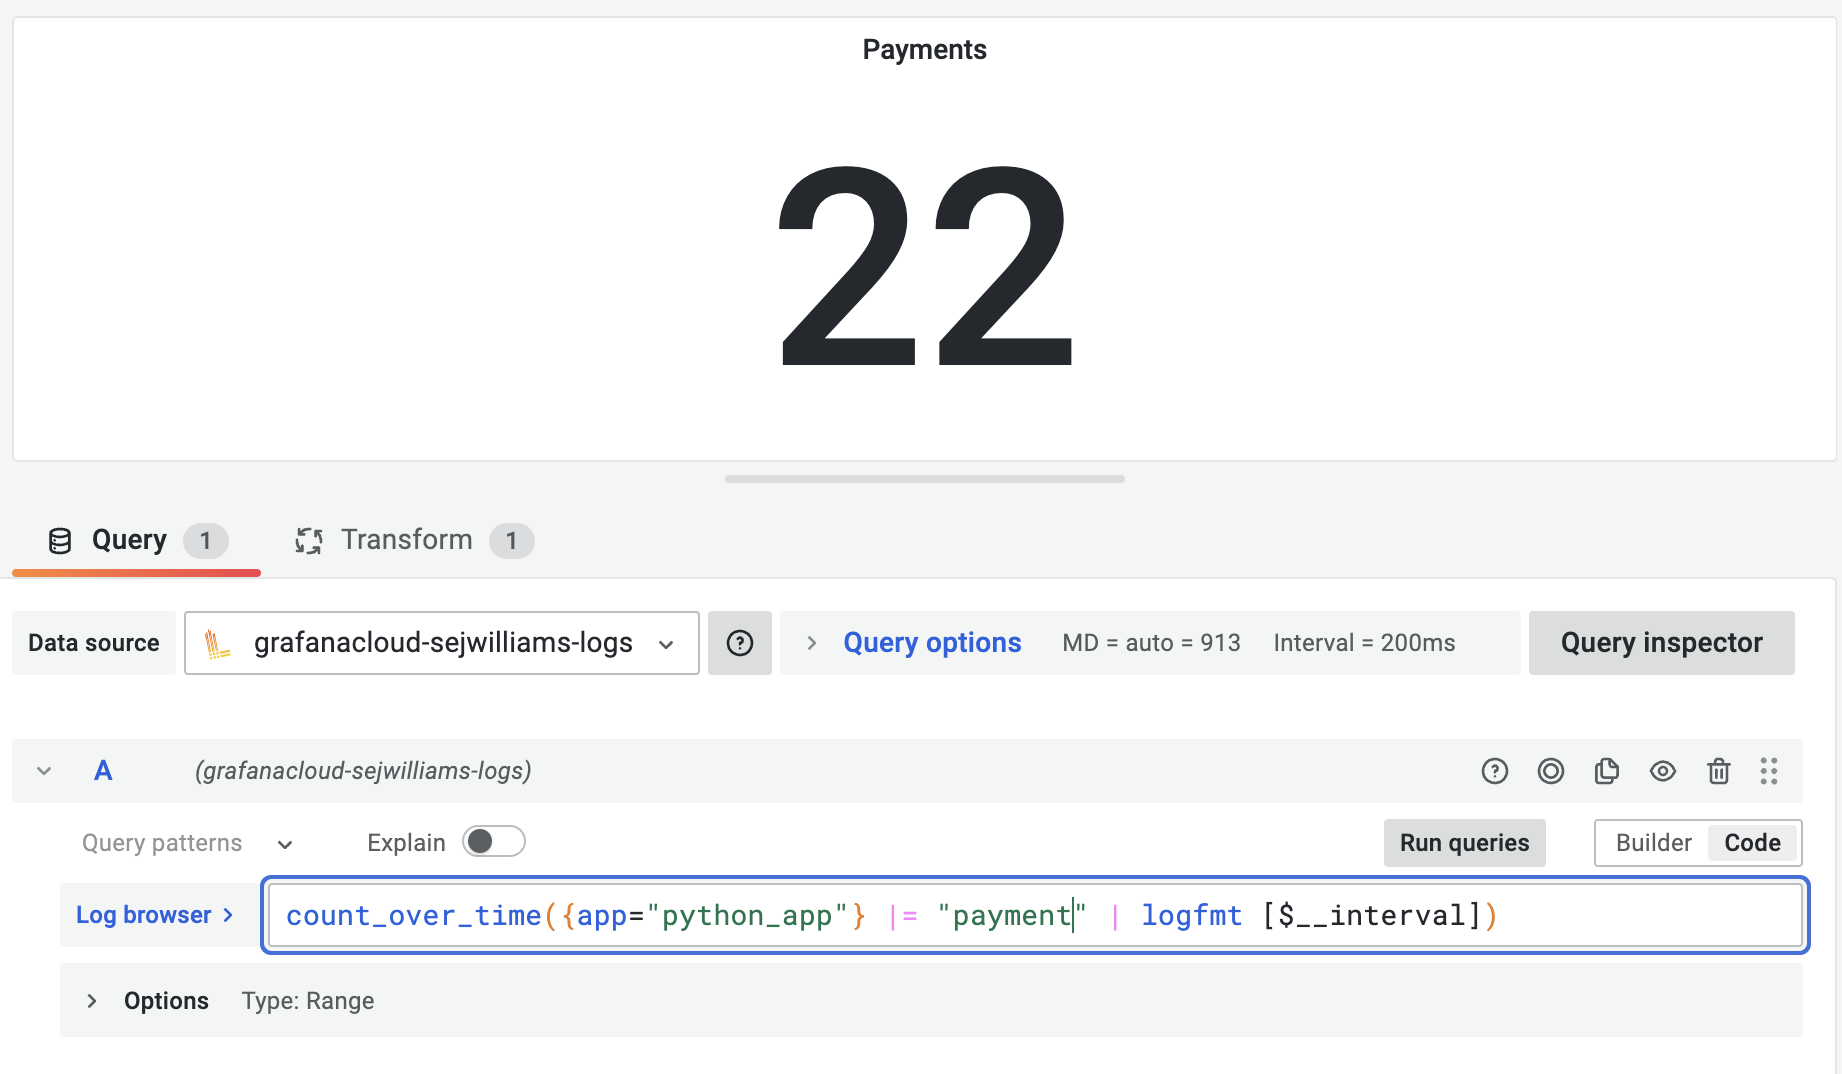
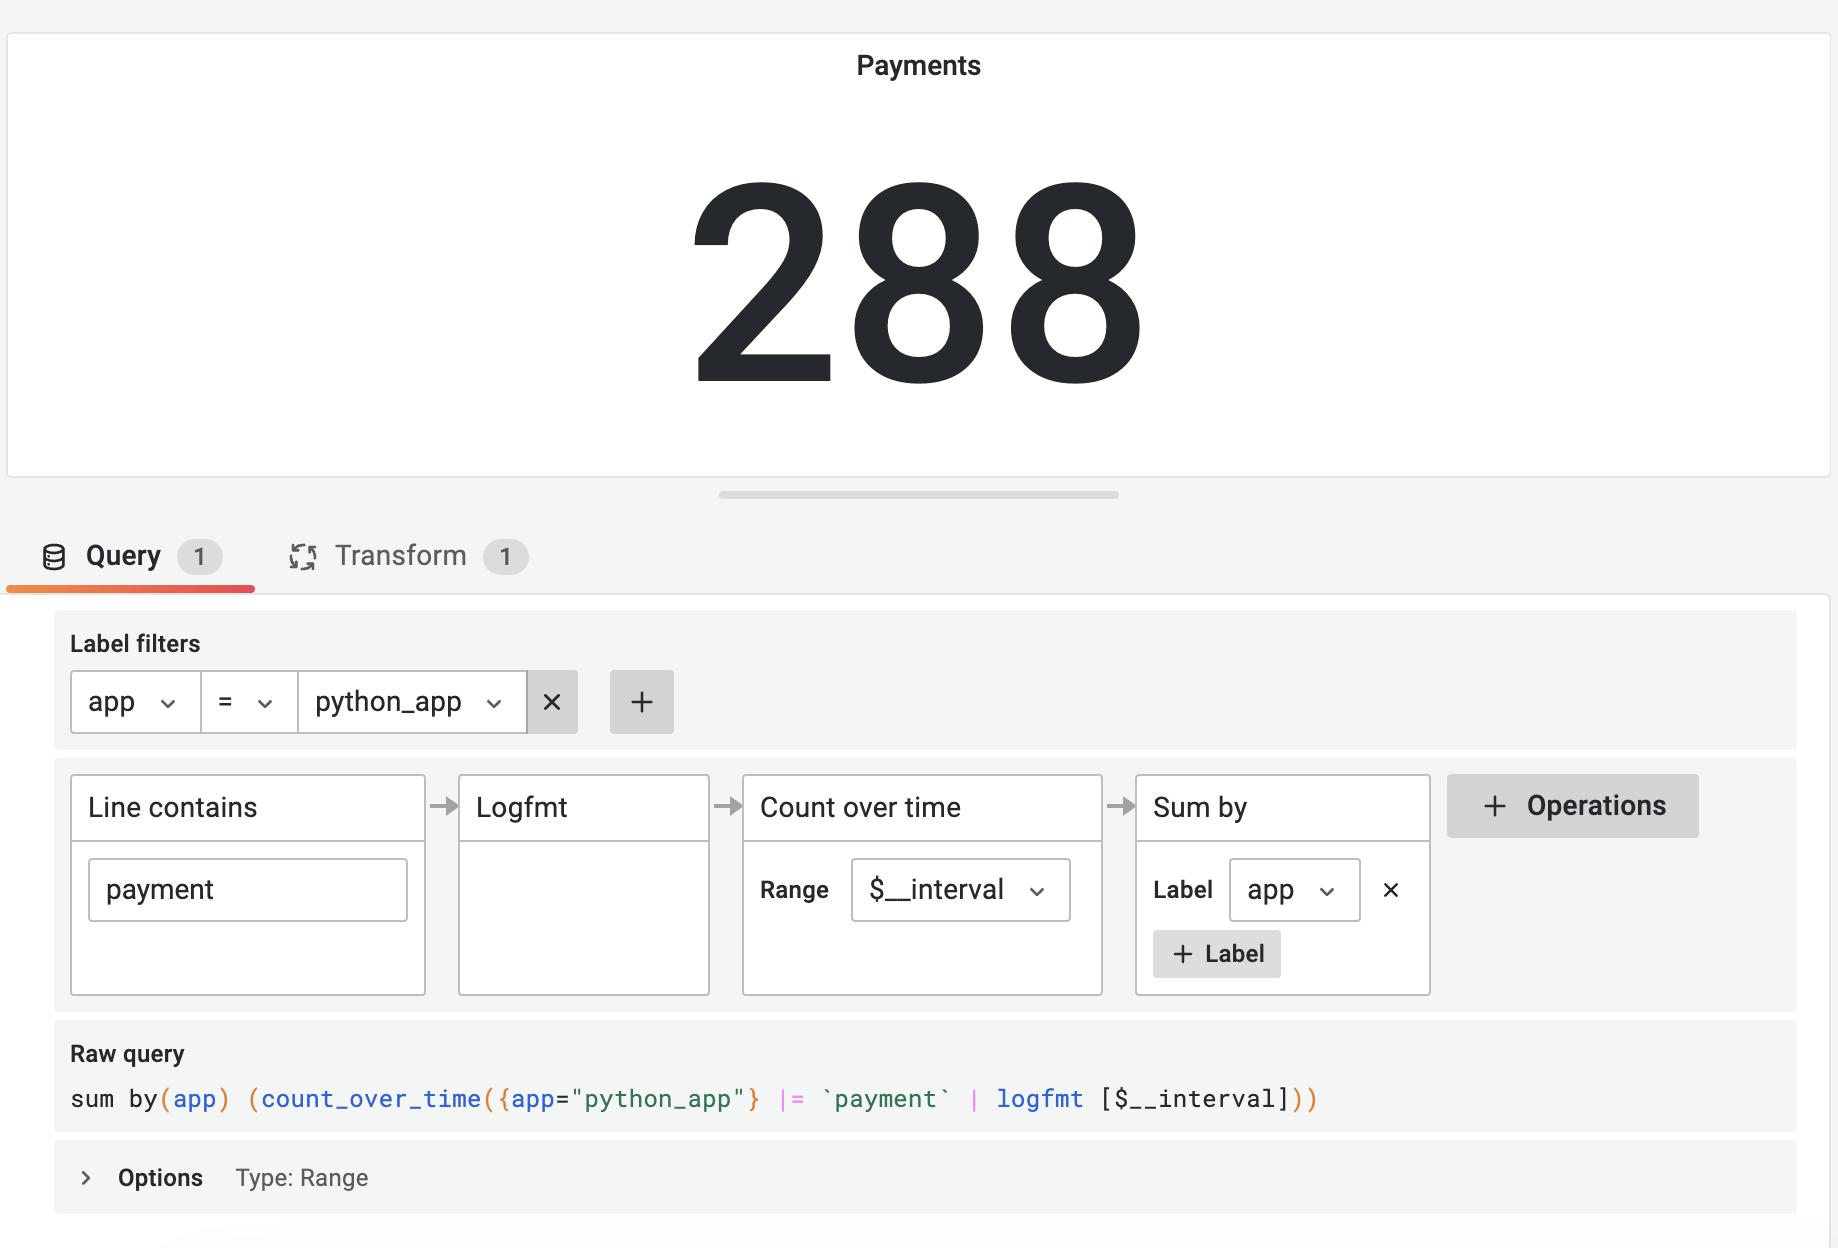
fixed logql queries

diff --git a/breakout6/README.md b/breakout6/README.md
@@ -101,12 +101,13 @@ Add user login count panel to the *REST - API* dashboard.
 9. In *A* click *+ Operations -> Line filters -> Line contains*
 10. In *Line contains -> Text to find* type `logged in`
 11. In *A* click *+ Operations -> Range functions -> Count over time*
-12. Click *Transform* tab and select `Series to rows` transformation
-13. Change *Panel options -> Value options -> Calculation* to `Total`
-14. Change *Panel options -> Stat styles -> Color mode* to `None`
-15. Change *Panel options -> Stat styles -> Graph mode* to `None`
-16. Click *Apply*
-17. (Optional) Click *Save*
+12. In *A* click *+ Operations -> Aggregations -> Sum* and set *Label* to `app`
+13. Click *Transform* tab and select `Series to rows` transformation
+14. Change *Panel options -> Value options -> Calculation* to `Total`
+15. Change *Panel options -> Stat styles -> Color mode* to `None`
+16. Change *Panel options -> Stat styles -> Graph mode* to `None`
+17. Click *Apply*
+18. (Optional) Click *Save*
 
 ---
 ![alt text](panel1.png) 
@@ -117,8 +118,8 @@ Add user login count panel to the *REST - API* dashboard.
 ### Step #6 
 EXTRA CREDIT: Add user payment and balance count panels to the *REST - API* dashboard.
 
-1. HINT: The raw query for *Payments* panel is: `count_over_time({app="python_app"} |= "payment" | logfmt [$__interval])`
-2. HINT: The raw query for *Balance Inquiries* panel is: `count_over_time({app="python_app"} |= "balance" | logfmt [$__interval])`
+1. HINT: The raw query for *Payments* panel is: `sum by(app) (count_over_time({app="python_app"} |= "payment" | logfmt [$__interval]))`
+2. HINT: The raw query for *Balance Inquiries* panel is: `sum by(app) (count_over_time({app="python_app"} |= "balance" | logfmt [$__interval]))`
 
 ---
 ![alt text](panel3.png) 
